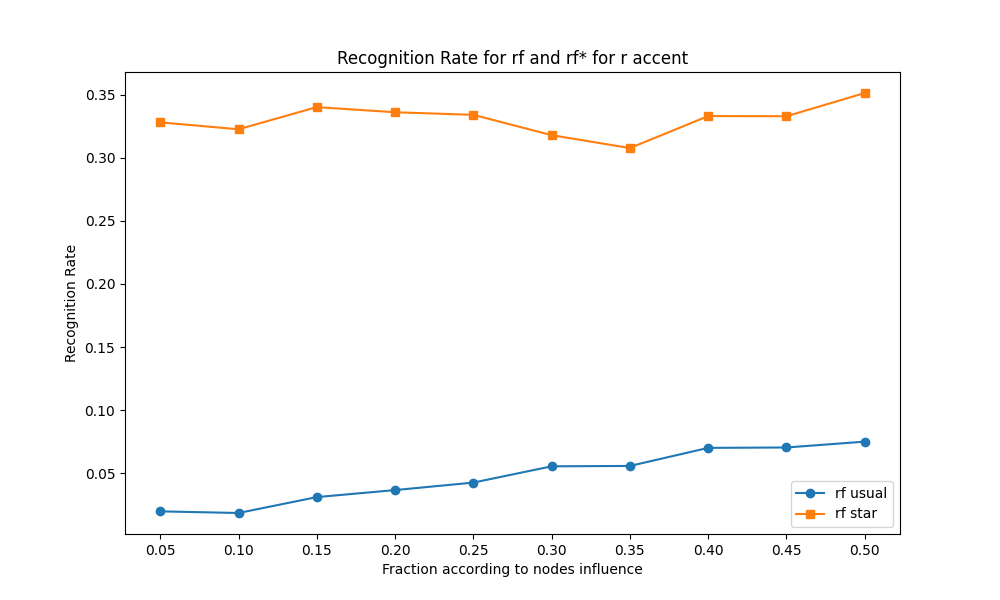
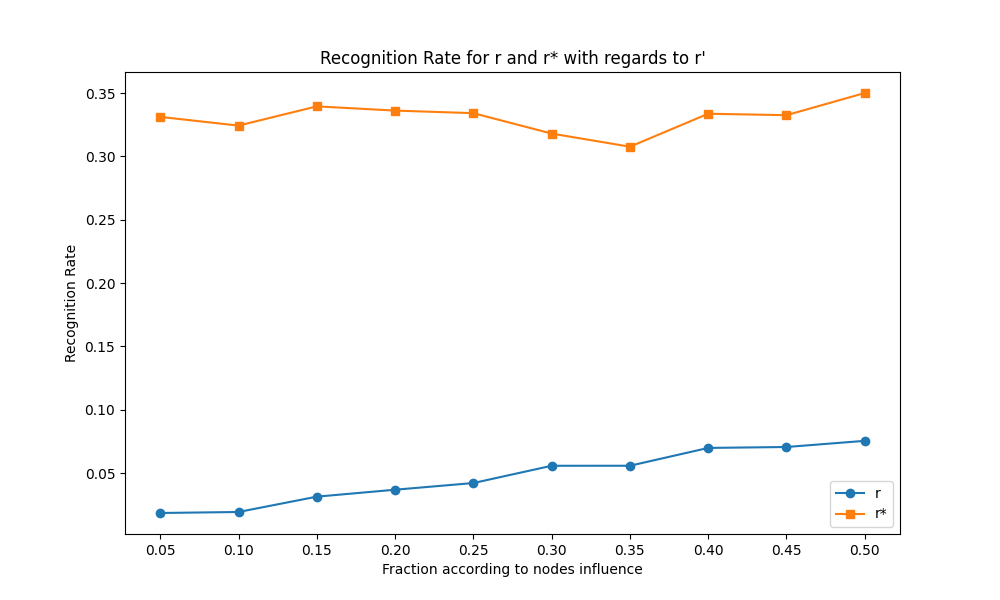
part b12

diff --git a/temporal_network.py b/temporal_network.py
@@ -144,31 +144,24 @@ def get_networks(edges_by_timestamp: dict, nodes: list[int], infection_goal):
             sorted_grouped[val].append(key)
         else:
             sorted_grouped[val] = [key]
-    return networks, infected_nodes_by_timestamp, dict(sorted(sorted_grouped.items(), key=lambda x: x[0])),  dict(sorted(infected_nodes_by_seed.items(), key=lambda item: item[1]))
+    return networks, infected_nodes_by_timestamp, dict(sorted(sorted_grouped.items(), key=lambda x: x[0])), dict(
+        sorted(infected_nodes_by_seed.items(), key=lambda item: item[1]))
+
 
 def get_networksb12(edges_by_timestamp: dict, nodes: list[int], infection_goal):
-    networks = []
-    infected_nodes_by_timestamp = {}
     infected_nodes_by_seed = {}
     for seed in nodes:
         infected_nodes = set()
         infected_nodes.add(seed)
         first_timestamp, link = find_first_timestamp_and_link(edges_by_timestamp, seed)
-        infected_links = [link]
-        t = 0
-        # TODO: check boundary
+        t = 0  # flag
         for timestamp in range(first_timestamp, len(edges_by_timestamp.keys())):
-            infected_ns, infected_ls = infect(edges_by_timestamp, infected_nodes, timestamp)
+            infected_ns, unused = infect(edges_by_timestamp, infected_nodes, timestamp)
             inf_l = infected_ns - infected_nodes
-
             infected_nodes = infected_ns.union(infected_nodes)
-            infected_links.extend(infected_ls)
-            if timestamp in infected_nodes_by_timestamp:
-                infected_nodes_by_timestamp[timestamp].append(len(infected_nodes))
-            else:
-                infected_nodes_by_timestamp[timestamp] = [len(infected_nodes)]
+
             if len(infected_nodes) <= infection_goal * len(nodes):
-                for s in range(len(inf_l)):
+                for _ in range(len(inf_l)):
                     if seed in infected_nodes_by_seed:
                         infected_nodes_by_seed[seed].append(timestamp)
                     else:
@@ -181,18 +174,18 @@ def get_networksb12(edges_by_timestamp: dict, nodes: list[int], infection_goal):
                         else:
                             infected_nodes_by_seed[seed] = [timestamp]
                     t += 1
-        networks.append(ig.Graph(infected_links))
+
     average_times = {}
     for seed, times in infected_nodes_by_seed.items():
         average_times[seed] = sum(times) / len(times)
+
     sorted_grouped = {}
-    # infected_nodes_by_seed = dict(sorted(infected_nodes_by_seed.items(), key=lambda item: item[1]))
     for key, val in sorted(average_times.items()):
         if val in sorted_grouped:
             sorted_grouped[val].append(key)
         else:
             sorted_grouped[val] = [key]
-    return networks, infected_nodes_by_timestamp, dict(sorted(sorted_grouped.items(), key=lambda x: x[0])),  dict(sorted(average_times.items(), key=lambda item: item[1]))
+    return dict(sorted(sorted_grouped.items(), key=lambda x: x[0]))
 
 
 def calculate_average_infected(infected_nodes_by_timestamp):
@@ -210,6 +203,7 @@ def calculate_standard_deviation(infected_nodes_by_timestamp):
         std_deviation = np.std(num_infected_list)
         std_deviation_by_timestamp[timestamp] = std_deviation
     return std_deviation_by_timestamp
+
 
 def plot_average_infected_with_errorbars(infected_nodes_by_timestamp):
     timestamps = list(infected_nodes_by_timestamp.keys())
@@ -232,7 +226,6 @@ def plot_average_infected_with_errorbars(infected_nodes_by_timestamp):
 
 # b9
 def plot_infected_nodes_by_seed(sorted_infected_nodes, assignment_num):
-
     seeds = list(sorted_infected_nodes.keys())
     timestamps = list(sorted_infected_nodes.values())
 
@@ -252,7 +245,8 @@ def plot_infected_nodes_by_seed(sorted_infected_nodes, assignment_num):
     plt.savefig(f"b_{assignment_num}.png")
     plt.show()
 
-#b10
+
+# b10
 def centrality(nodes, edges, sorted_infected_nodes, edges_by_timestamp, num):
     # sorted_infected_nodes = list(sorted_infected_nodes.keys())
     f = [0.05, 0.1, 0.15, 0.2, 0.25, 0.3, 0.35, 0.4, 0.45, 0.5]
@@ -263,7 +257,6 @@ def centrality(nodes, edges, sorted_infected_nodes, edges_by_timestamp, num):
     rRS_values = []
     rFS_values = []
     for v in f:
-        fraction = int(v * len(nodes))
         rRD = 0
         rRS = 0
         rFS = 0
@@ -284,9 +277,9 @@ def centrality(nodes, edges, sorted_infected_nodes, edges_by_timestamp, num):
             fcs = list(fc.items())[0:int(v * len(nodes))]
             for key, value in fcs:
                 Rf_contact.add(random.choice(value))
-            rRD += len(Rf.intersection(Rf_degree))/len(Rf)
-            rRS += len(Rf.intersection(Rf_strength))/len(Rf)
-            rFS += len(Rf.intersection(Rf_contact))/len(Rf)
+            rRD += len(Rf.intersection(Rf_degree)) / len(Rf)
+            rRS += len(Rf.intersection(Rf_strength)) / len(Rf)
+            rFS += len(Rf.intersection(Rf_contact)) / len(Rf)
         rRD /= 1000
         rRS /= 1000
         rFS /= 1000
@@ -315,6 +308,7 @@ def centrality(nodes, edges, sorted_infected_nodes, edges_by_timestamp, num):
         plt.savefig('b_11.png')
         plt.show()
 
+
 def get_networks_b12(edges_by_timestamp: dict, nodes: list[int], infection_goal):
     networks = []
     infected_nodes_by_timestamp = {}
@@ -331,7 +325,7 @@ def get_networks_b12(edges_by_timestamp: dict, nodes: list[int], infection_goal)
             infected_ns, infected_ls = infect(edges_by_timestamp, infected_nodes, timestamp)
             infected_nodes = infected_ns.union(infected_nodes)
             infected_links.extend(infected_ls)
-            
+
             total_time += timestamp * (len(infected_nodes) - old_num_infected_nodes)
 
             if timestamp in infected_nodes_by_timestamp:
@@ -340,7 +334,7 @@ def get_networks_b12(edges_by_timestamp: dict, nodes: list[int], infection_goal)
                 infected_nodes_by_timestamp[timestamp] = [len(infected_nodes)]
             if seed not in infected_nodes_by_seed:
                 if len(infected_nodes) > infection_goal * len(nodes):
-                    infected_nodes_by_seed[seed] = total_time/(infection_goal*len(nodes))
+                    infected_nodes_by_seed[seed] = total_time / (infection_goal * len(nodes))
 
         networks.append(ig.Graph(infected_links))
 
@@ -351,20 +345,20 @@ def get_networks_b12(edges_by_timestamp: dict, nodes: list[int], infection_goal)
         else:
             sorted_grouped[val] = [key]
 
-    return networks, infected_nodes_by_timestamp, dict(sorted(sorted_grouped.items(), key=lambda x: x[0])), dict(sorted(infected_nodes_by_seed.items(), key=lambda item: item[1]))
+    return networks, infected_nodes_by_timestamp, dict(sorted(sorted_grouped.items(), key=lambda x: x[0])), dict(
+        sorted(infected_nodes_by_seed.items(), key=lambda item: item[1]))
 
 
 # b12
 def plot_different_infection_metrics(sorted_infected_nodes, assignment_num):
-
     seeds = list(sorted_infected_nodes.keys())
     timestamps = list(sorted_infected_nodes.values())
-    
+
     plt.figure(figsize=(10, 6))
     for method_name, infected_nodes in sorted_infected_nodes.items():
         print(method_name)
         seeds = list(infected_nodes.keys())
-        timestamps = list(infected_nodes.values())   
+        timestamps = list(infected_nodes.values())
         plt.plot(seeds, timestamps, marker='o', label=method_name)
         plt.xlabel('Seed Nodes')
         plt.ylabel('Timestamp to Reach Goal')
@@ -380,69 +374,70 @@ def plot_different_infection_metrics(sorted_infected_nodes, assignment_num):
     plt.savefig(f"b_{assignment_num}.png")
     plt.show()
 
-def b12(sorted_infected_nodes_r, sorted_infected_nodes_r_star, sorted_infected_nodes_r_accent, num):
-        f = [0.05, 0.1, 0.15, 0.2, 0.25, 0.3, 0.35, 0.4, 0.45, 0.5]
-        rRD_values = []
-        rRS_values = []
-        rFS_values = []
-        for v in f:
-            fraction = int(v * len(nodes))
-            rRD = 0
-            rRS = 0
-            rFS = 0
-            for _ in range(1000):
-                Rf_star = set()
-                Rf_accent = set()
-                Rf = set()
-                degreess = list(sorted_infected_nodes_r.items())[0:int(v * len(nodes))]
-                for key, value in degreess:
-                    Rf.add(random.choice(value))
-                weightss = list(sorted_infected_nodes_r_star.items())[0:int(v * len(nodes))]
-                for key, value in weightss:
-                    Rf_star.add(random.choice(value))
-                sorted_infected_nodess = list(sorted_infected_nodes_r_accent.items())[0:int(v * len(nodes))]
-                for key, value in sorted_infected_nodess:
-                    Rf_accent.add(random.choice(value))
-                rRD += len(Rf.intersection(Rf_star)) / len(Rf)
-                rRS += len(Rf.intersection(Rf_accent)) / len(Rf)
-            rRD /= 1000
-            rRS /= 1000
-            rFS /= 1000
-            rRD_values.append(rRD)
-            rRS_values.append(rRS)
-            rFS_values.append(rFS)
 
-        plt.figure(figsize=(10, 6))
-        if num == '1':
-            plt.plot(f, rRD_values, marker='o', label='rf star')
-            plt.plot(f, rRS_values, marker='s', label='rf accent')
-            plt.xlabel('Fraction according to nodes influence')
-            plt.ylabel('Recognition Rate')
-            plt.title('Recognition Rate for rf* and rf\' for r')
-            plt.xticks(f)
-            plt.legend()
-            plt.savefig('b_12_1.png')
-            plt.show()
-        if num == '2':
-            plt.plot(f, rRD_values, marker='o', label='rf usual')
-            plt.plot(f, rRS_values, marker='s', label='rf star')
-            plt.xlabel('Fraction according to nodes influence')
-            plt.ylabel('Recognition Rate')
-            plt.title('Recognition Rate for rf and rf* for r accent')
-            plt.xticks(f)
-            plt.legend()
-            plt.savefig('b_12_2.png')
-            plt.show()
-        if num == '3':
-            plt.plot(f, rRD_values, marker='o', label='rf usual')
-            plt.plot(f, rRS_values, marker='s', label='rf accent')
-            plt.xlabel('Fraction according to nodes influence')
-            plt.ylabel('Recognition Rate')
-            plt.title('Recognition Rate for rf and rf\' for r star')
-            plt.xticks(f)
-            plt.legend()
-            plt.savefig('b_12_3.png')
-            plt.show()
+def b12(sorted_infected_nodes_r, sorted_infected_nodes_r_star, sorted_infected_nodes_r_accent, num):
+    f = [0.05, 0.1, 0.15, 0.2, 0.25, 0.3, 0.35, 0.4, 0.45, 0.5]
+    rRD_values = []
+    rRS_values = []
+    rFS_values = []
+    for v in f:
+        rRD = 0
+        rRS = 0
+        rFS = 0
+        for _ in range(1000):
+            Rf_star = set()
+            Rf_accent = set()
+            Rf = set()
+            degreess = list(sorted_infected_nodes_r.items())[0:int(v * len(nodes))]
+            for key, value in degreess:
+                Rf.add(random.choice(value))
+            weightss = list(sorted_infected_nodes_r_star.items())[0:int(v * len(nodes))]
+            for key, value in weightss:
+                Rf_star.add(random.choice(value))
+            sorted_infected_nodess = list(sorted_infected_nodes_r_accent.items())[0:int(v * len(nodes))]
+            for key, value in sorted_infected_nodess:
+                Rf_accent.add(random.choice(value))
+            rRD += len(Rf.intersection(Rf_star)) / len(Rf)
+            rRS += len(Rf.intersection(Rf_accent)) / len(Rf)
+        rRD /= 1000
+        rRS /= 1000
+        rFS /= 1000
+        rRD_values.append(rRD)
+        rRS_values.append(rRS)
+        rFS_values.append(rFS)
+
+    plt.figure(figsize=(10, 6))
+    if num == '1':
+        plt.plot(f, rRD_values, marker='o', label='r*')
+        plt.plot(f, rRS_values, marker='s', label='r\'')
+        plt.xlabel('Fraction according to nodes influence')
+        plt.ylabel('Recognition Rate')
+        plt.title('Recognition Rate for r* and r\' with regards to r')
+        plt.xticks(f)
+        plt.legend()
+        plt.savefig('b_12_1.png')
+        plt.show()
+    if num == '2':
+        plt.plot(f, rRD_values, marker='o', label='r')
+        plt.plot(f, rRS_values, marker='s', label='r*')
+        plt.xlabel('Fraction according to nodes influence')
+        plt.ylabel('Recognition Rate')
+        plt.title('Recognition Rate for r and r* with regards to r\'')
+        plt.xticks(f)
+        plt.legend()
+        plt.savefig('b_12_2.png')
+        plt.show()
+    if num == '3':
+        plt.plot(f, rRD_values, marker='o', label='r')
+        plt.plot(f, rRS_values, marker='s', label='r\'')
+        plt.xlabel('Fraction according to nodes influence')
+        plt.ylabel('Recognition Rate')
+        plt.title('Recognition Rate for r and r\' with regards to r*')
+        plt.xticks(f)
+        plt.legend()
+        plt.savefig('b_12_3.png')
+        plt.show()
+
 
 if __name__ == "__main__":
     edges_by_timestamp, nodes, edges = read_file()
@@ -462,8 +457,9 @@ if __name__ == "__main__":
 
     # # For 12 we need to rank on 10% reached.
     # networks_r, infected_nodes_by_timestamp_r, sorted_infected_nodes_r, not_map_r = get_networks(edges_by_timestamp, nodes, 0.8)
-    networks_r_star, infected_nodes_by_timestamp_r_star, sorted_infected_nodes_r_star, not_map_r_star = get_networks(edges_by_timestamp, nodes, 0.1)
-    networks_r_accent, infected_nodes_by_timestamp_r_accent, sorted_infected_nodes_r_accent, not_map_r_star = get_networksb12(edges_by_timestamp, nodes, 0.8)
+    networks_r_star, infected_nodes_by_timestamp_r_star, sorted_infected_nodes_r_star, not_map_r_star = get_networks(
+        edges_by_timestamp, nodes, 0.1)
+    sorted_infected_nodes_r_accent = get_networksb12(edges_by_timestamp, nodes, 0.8)
     # print(f"len r = {len(not_map_r)}, len r* = {len(not_map_r_star)}, len r'= {len(sorted_infected_nodes_r_accent)}")
     # infection_metrics = {
     #     "R": not_map_r,
@@ -474,9 +470,3 @@ if __name__ == "__main__":
     b12(sorted_infected_nodes, sorted_infected_nodes_r_star, sorted_infected_nodes_r_accent, '1')
     b12(sorted_infected_nodes_r_accent, sorted_infected_nodes, sorted_infected_nodes_r_star, '2')
     b12(sorted_infected_nodes_r_star, sorted_infected_nodes, sorted_infected_nodes_r_accent, '3')
-
-
-
-
-
-

diff --git a/Report.MD b/Report.MD
@@ -55,38 +55,38 @@ The graph looks like this, because the standard deviation is also plotted around
 
 ### B.9
 ![Infected_80_percent](./b_9.png)
-The graph shows the timestep in which each node _i_ has infected 80% of the graph as the seed node., assuming the nodes are sorted from fastest to slowest infection rates.
+The graph shows the timestep in which each node _i_ has infected 80% of the graph as the seed node, assuming the nodes are sorted from fastest to slowest infection rates.
 Note: the graph might look a bit strange, in the sense, that some lines go to the right, then to the left. This can be explained
 by example from the plot. Node-seed #42 infects 80% of the nodes, later than node-seed #70. 
 
 ### B.10: 
 ![recognition rate](./b_10.png)
-The recognition rate, evaluates how many of the actual influential nodes in the network are being identified by a metric like the strength or degree metrics.
-This is done by comparing what percentage of the top identified nodes is actually in the top influential nodes of teh network, so the higher the .
-The x-axis in the graph represents the fraction of the top influential nodes that we compare the top-influential nodes of our chosen metrics to. 
 
-Looking at the graph provided above, we can see that up to approximately a fraction of 0.35, thee degree metric has a better recognition of influential nodes than the strength metric, and from a fraction bigger than 0.35, the degree recognition does not improve anymore, while the strength metric keeps improving on the recognition. A reason that the degree metric performance stays the same, can be that when the fraction becomes to big, more and more nodes have the same degree, as we can see in picture of A.2. This means that the metric sees these as equally influential, while in reality that does not have to be the case.
+The blue line shows the correlation between the most infectious nodes (fastest to infect 80% of the nodes) and the nodes with the 
+highest degree.
+The orange line shows the correlation between the most infectious nodes (fastest to infect 80% of the nodes) and the nodes with the 
+highest strength.
+The degree at first grows faster than strength because infectious nodes should have many connections. 
+At some point we observe that strength starts to dominate. This happens because nodes not only have many connections, 
+but also these connections are distributed across time, causing higher infection rate. 
 
-To find influential nodes fairly easily, the degree metric seems to be the best. This is mainly because it performs best on smaller fractions. Working with smaller fractions can significantly improve the computation time.
+To better predict the influence of the nodes we should choose degree in cases when we do not have necessary data and we 
+have to compute it (because it just uses small fraction), however in case when the data is precomputed we should choose strength metric (because the recognition rate is higher).
 
 ### B.11: 
 ![recognition rate contact](./b_11.png)
-In this exercise a third metric was added. This metric, determines the influence of a node based on when has contact with the information. This metric improves in performance, the bigger the fraction becomes. only from a fraction bigger than 0.4 to 0.45 it starts to really perform better than the two other metrics.
-
+In this exercise a third metric was added. At the start, this metric poorly performs. Possible explanation could be that
+even if the node is infected at the start, it does not have many connections. However, we observe that this function grows
+following parabola trajectory. The intense growth of green line begins at around 0.3 fraction, which roughly corresponds to 30% percent of all the nodes. The growing rate can be due to the fact that the more nodes we take from first contact, the higher the probability that at least some of them have early connections with different nodes, thus they will intersect with most infectious nodes.
 
 ### B.12
 ![](./b_12_1.png)
 ![](./b_12_2.png)
 ![](./b_12_3.png)
-When comparing R, R* and R'to each other, We can see that R has a worse recognition rate than both R* an R'. Next tot that we also see that R* outperforms R'.
 
+In first graph, we can see that recognition rate between R and R* is higher than between R and R'. 
+This most probably happens due to the fact that the set of nodes which infect 10% fastly is big, thus it has higher probability to intersect with set of nodes that infect 80% fastly.
 
- (Basic Idea, small portion, less influential nodes have harder time to get to 10% than more influential, so at the start bigger time difference.
- For fraction 70% of all nodes, the more influential nodes probably get included at some point, speeding up infection rates of less influential nodes as well, this can make that average times to reach 80% are closer to each other than times to reach 10%, making 10% a better metric. Figure of B9 shows that for the most nodes the time to reach 80% are really similar for most nodes.)
+The second graph can be explained using the same logic.
 
-We can explain this by a similar reasoning as used in B.10.
-The biggest difference between R* and R'and R is that R* only checks how fast 10% of all the nodes are infected. R and R' check when 80% are used of the are reached.
-By checking a smaller portion, the time difference of the more influential nodes to reach the wanted amount of nodes is probably bigger than when the fraction is higher. Especially  considering that the average hop count is approximately 2.
-With this small hop count, the time to reach a big fraction of all the nodes, will most likely become really similar. 
-This is because when you have already covered a bigger part of the network, each timestep will infect a way bigger group than before because the graph is closely connected.
-While for R*, where we check the time for only 10% to be infected, nodes that have many nodes within close reach perform way better early on than nodes with less nodes close by. 
+The third graph shows that R' has higher recognition rate with regards to r*. We think that this may happen due to coincidence: average time to infect 80% correlates with nodes that infect 10% fastly.
